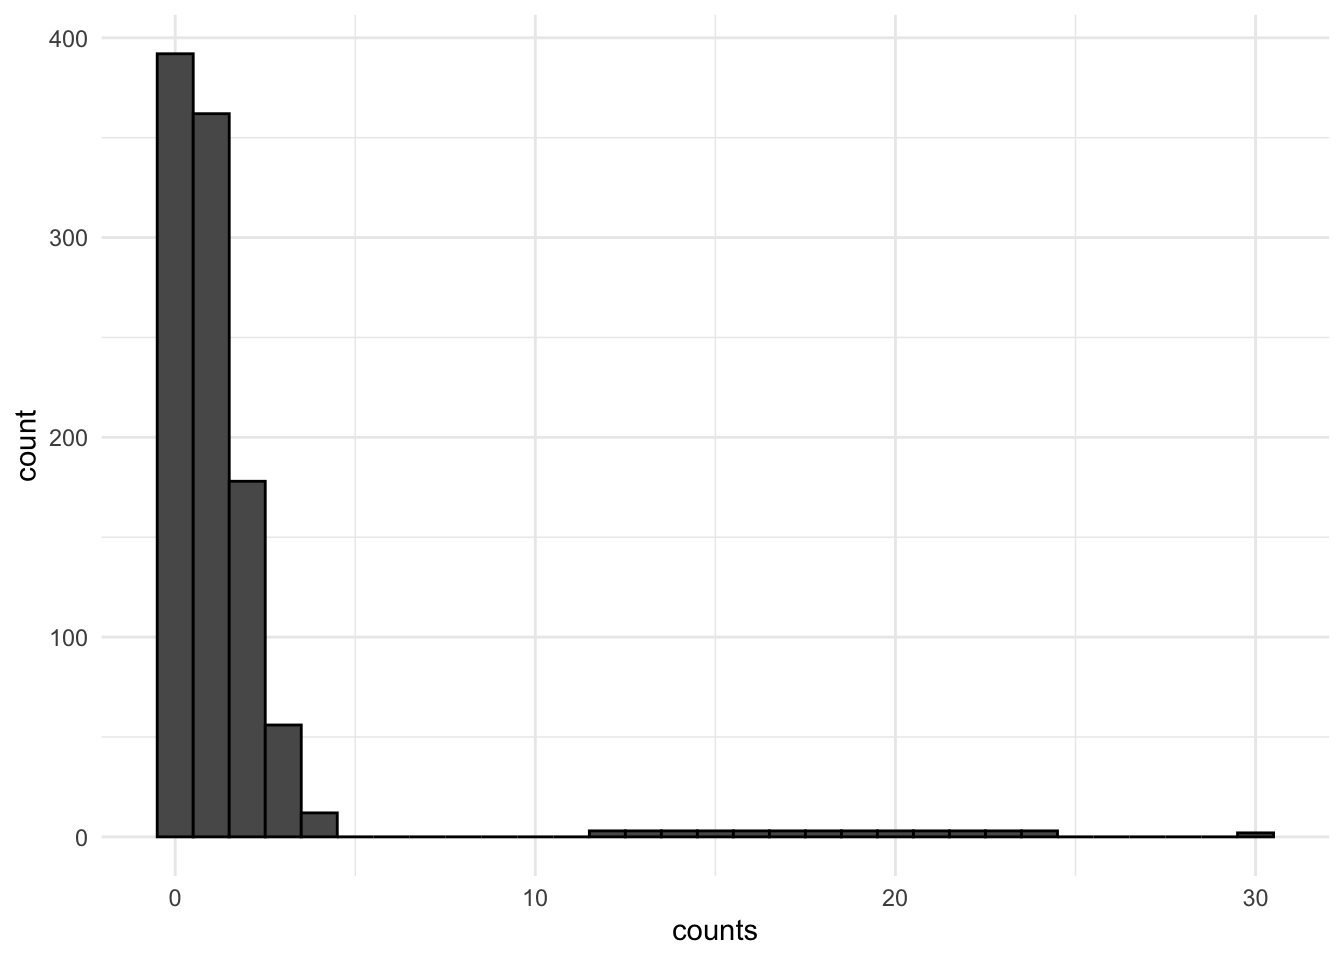
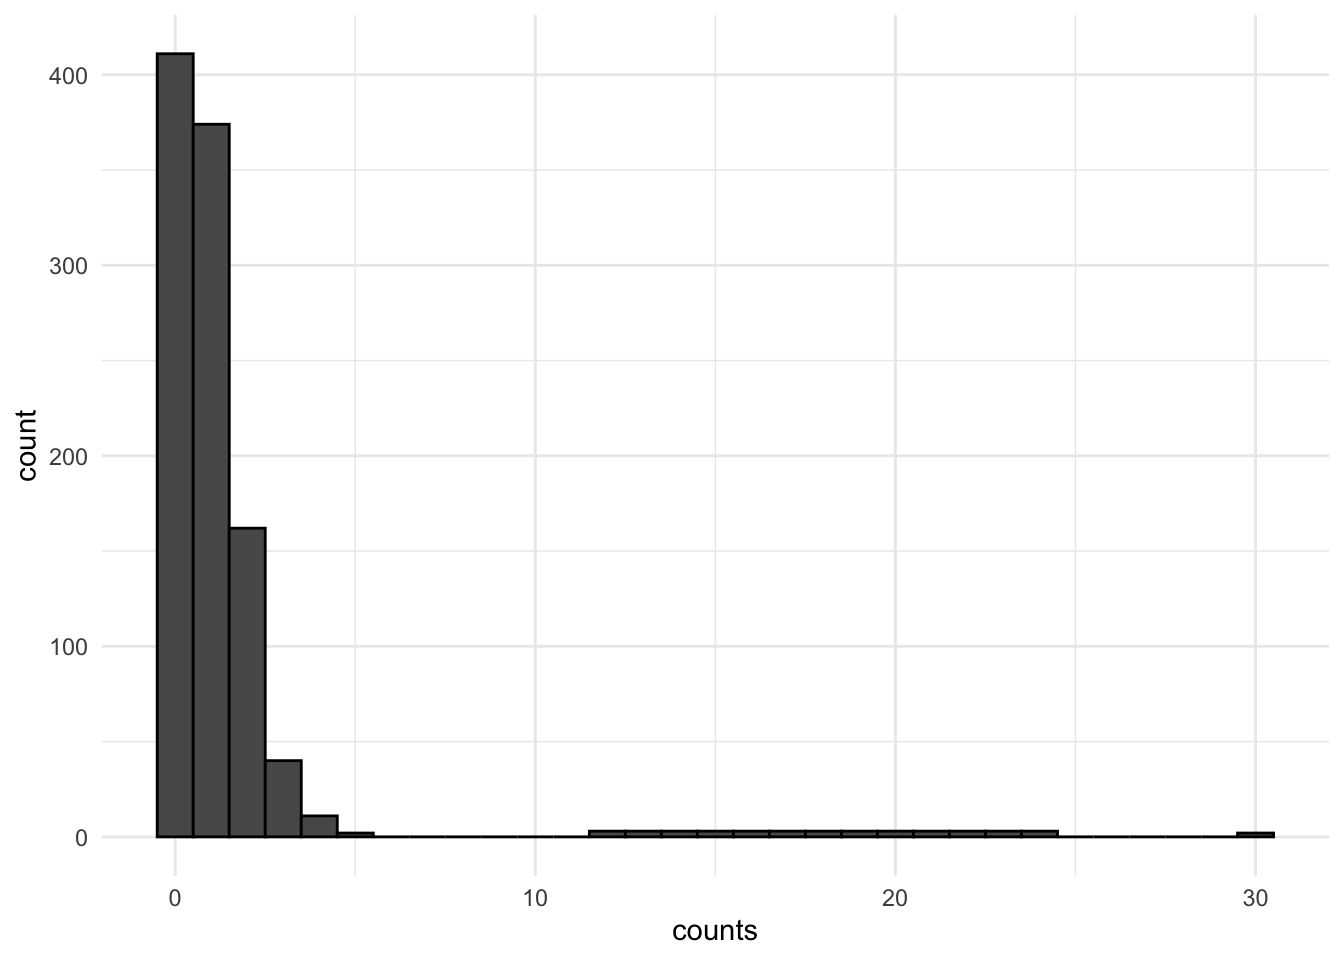
update count

diff --git a/docs/10-CountData.html b/docs/10-CountData.html
@@ -295,7 +295,7 @@ pre > code.sourceCode > span > a:first-child::before { text-decoration: underlin
 <div class="sourceCode cell-code" id="cb1"><pre class="sourceCode r code-with-copy"><code class="sourceCode r"><span id="cb1-1"><a href="#cb1-1" aria-hidden="true" tabindex="-1"></a>Y <span class="ot">&lt;-</span> <span class="fu">rpois</span>(<span class="at">n=</span><span class="dv">30</span>, <span class="at">lambda =</span> <span class="dv">2</span>)</span>
 <span id="cb1-2"><a href="#cb1-2" aria-hidden="true" tabindex="-1"></a>Y</span></code><button title="Copy to Clipboard" class="code-copy-button"><i class="bi"></i></button></pre></div>
 <div class="cell-output cell-output-stdout">
-<pre><code> [1] 2 1 0 0 4 1 3 5 2 2 2 5 3 3 3 2 2 4 4 1 2 3 1 1 2 1 3 1 0 1</code></pre>
+<pre><code> [1] 1 0 6 1 1 4 1 2 6 1 0 2 2 4 2 0 2 1 1 1 0 1 2 0 2 1 3 3 1 5</code></pre>
 </div>
 </div>
 <p>A common way one might approach modeling data of this type is to use OLS to estimate a linear model. After all, the data seem quasi-continuous! Sometimes, this might be just fine, but let’s think about some situations where this could go awry.</p>
@@ -359,11 +359,11 @@ pre > code.sourceCode > span > a:first-child::before { text-decoration: underlin
 <span id="cb3-5"><a href="#cb3-5" aria-hidden="true" tabindex="-1"></a>Y <span class="ot">&lt;-</span> <span class="fu">rpois</span>(<span class="at">n=</span><span class="dv">100000</span>, <span class="at">lambda =</span> <span class="dv">4</span>)</span>
 <span id="cb3-6"><a href="#cb3-6" aria-hidden="true" tabindex="-1"></a><span class="fu">mean</span>(Y)</span></code><button title="Copy to Clipboard" class="code-copy-button"><i class="bi"></i></button></pre></div>
 <div class="cell-output cell-output-stdout">
-<pre><code>[1] 4.00708</code></pre>
+<pre><code>[1] 4.01318</code></pre>
 </div>
 <div class="sourceCode cell-code" id="cb5"><pre class="sourceCode r code-with-copy"><code class="sourceCode r"><span id="cb5-1"><a href="#cb5-1" aria-hidden="true" tabindex="-1"></a><span class="fu">var</span>(Y)</span></code><button title="Copy to Clipboard" class="code-copy-button"><i class="bi"></i></button></pre></div>
 <div class="cell-output cell-output-stdout">
-<pre><code>[1] 3.99693</code></pre>
+<pre><code>[1] 4.016826</code></pre>
 </div>
 </div>
 <p>The pmf above describes the probability that <code>Y</code> takes a particular outcome.</p>
@@ -1413,18 +1413,18 @@ Expand for details.
 <div class="cell">
 <div class="sourceCode cell-code" id="cb121"><pre class="sourceCode r code-with-copy"><code class="sourceCode r"><span id="cb121-1"><a href="#cb121-1" aria-hidden="true" tabindex="-1"></a><span class="fu">library</span>(marginaleffects)</span>
 <span id="cb121-2"><a href="#cb121-2" aria-hidden="true" tabindex="-1"></a><span class="do">## Note: levels(fake$age) is a shortcut for putting in the vector of all possible age levels. Only works for factor variables.</span></span>
-<span id="cb121-3"><a href="#cb121-3" aria-hidden="true" tabindex="-1"></a>count.byage.me <span class="ot">&lt;-</span> <span class="fu">avg_predictions</span>(model1.qp, <span class="at">by=</span><span class="st">"age"</span>, <span class="at">newdata=</span><span class="fu">datagridcf</span>(<span class="at">age =</span> <span class="fu">levels</span>(fake<span class="sc">$</span>age)))</span>
+<span id="cb121-3"><a href="#cb121-3" aria-hidden="true" tabindex="-1"></a>count.byage.me <span class="ot">&lt;-</span> <span class="fu">avg_predictions</span>(model1.qp, <span class="at">by=</span><span class="st">"age"</span>, <span class="at">newdata=</span><span class="fu">datagridcf</span>(<span class="at">age =</span> <span class="fu">levels</span>(fake<span class="sc">$</span>age)), <span class="at">type=</span><span class="st">"response"</span>)</span>
 <span id="cb121-4"><a href="#cb121-4" aria-hidden="true" tabindex="-1"></a>count.byage.me</span></code><button title="Copy to Clipboard" class="code-copy-button"><i class="bi"></i></button></pre></div>
 <div class="cell-output cell-output-stdout">
 <pre><code>
-     age Estimate Pr(&gt;|z|)    S   2.5 % 97.5 %
- 18-29     0.0320   &lt;0.001 17.2 0.00717  0.143
- 30-44     0.0693   &lt;0.001 40.7 0.03352  0.143
- 45-65     0.0998   &lt;0.001 56.4 0.05888  0.169
- Over 65   0.2493   &lt;0.001 20.9 0.14505  0.429
+     age Estimate Std. Error    z Pr(&gt;|z|)    S   2.5 % 97.5 %
+ 18-29     0.0657     0.0489 1.34  0.17910  2.5 -0.0302  0.162
+ 30-44     0.1422     0.0464 3.06  0.00219  8.8  0.0512  0.233
+ 45-65     0.2048     0.0347 5.91  &lt; 0.001 28.1  0.1369  0.273
+ Over 65   0.5120     0.0865 5.92  &lt; 0.001 28.2  0.3424  0.682
 
-Columns: age, estimate, p.value, s.value, conf.low, conf.high 
-Type:  invlink(link) </code></pre>
+Columns: age, estimate, std.error, statistic, p.value, s.value, conf.low, conf.high 
+Type:  response </code></pre>
 </div>
 </div>
 <div class="cell">

diff --git a/docs/site_libs/vembedr-0.1.5/css/vembedr.css b/docs/site_libs/vembedr-0.1.5/css/vembedr.css
@@ -1,0 +1,14 @@
+.vembedr {
+  margin-bottom: 10px;
+}
+
+.vembedr-rounded {
+  display: inline-block;
+  border-radius: 15px;
+  overflow: hidden;
+}
+
+.vembedr-rounded iframe {
+  display: block;
+  border: none;
+}
